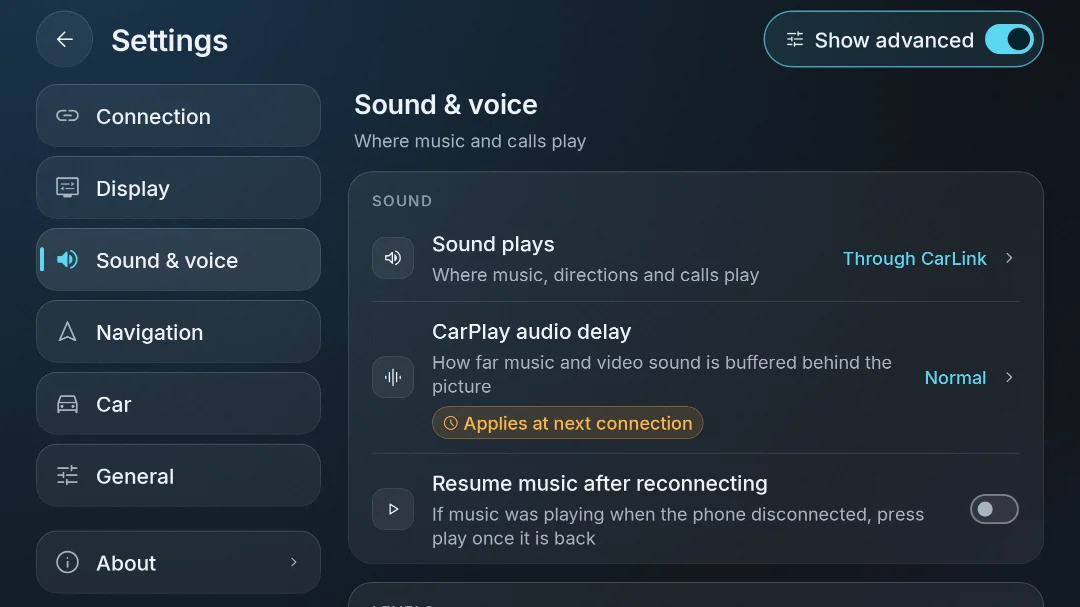
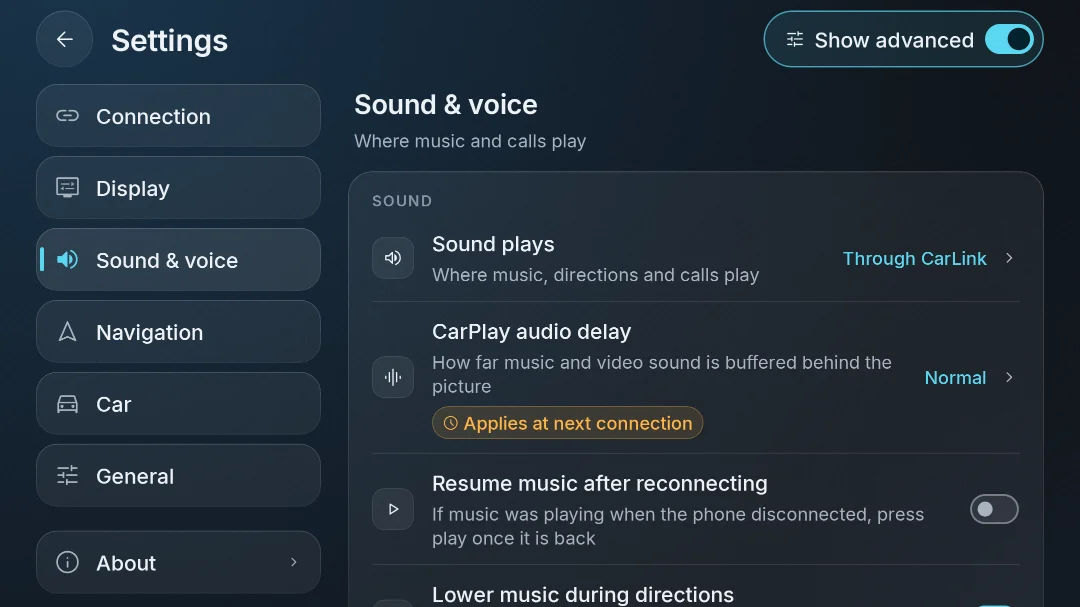
Lower CarPlay music during navigation prompts (#83)
On stereos that play media and navigation through one Android media
channel, CarPlay's own music stayed at full volume while a prompt spoke,
so directions were barely audible. The iPhone already sends duckAudio
and unduckAudio; DiPlay only used them for an opt-in focus request.

A small CarLink hook in DiPlay's AudioFocusCoordinator now keeps the
prompt duck as a second reason next to focus changes: media tracks play
at the quieter of the two, so a focus gain does not undo a prompt duck
and an unduck does not undo a focus loss. It also works with audio
focus off. HostAudio.duckMediaForPrompts gates it (off in standalone
DiPlay); CarLink sets it from the new "Lower music during directions"
setting under Sound, on by default, included in settings backups and
applied to a running session at once.

Changed region(s): [[0.3972, 0.9489, 0.7028, 1.0]]

diff --git a/vendor/diplay/shared/src/test/java/com/shilapi/xcertplay/media/PromptDuckVolumeTest.kt b/vendor/diplay/shared/src/test/java/com/shilapi/xcertplay/media/PromptDuckVolumeTest.kt
@@ -1,0 +1,91 @@
+package com.shilapi.xcertplay.media
+
+import android.content.Context
+import android.media.AudioAttributes
+import android.media.AudioFormat
+import android.media.AudioManager
+import android.media.AudioTrack
+import org.junit.After
+import org.junit.Assert.assertEquals
+import org.junit.Assert.assertTrue
+import org.junit.Before
+import org.junit.Test
+import org.junit.runner.RunWith
+import org.robolectric.RobolectricTestRunner
+import org.robolectric.RuntimeEnvironment
+import org.robolectric.Shadows.shadowOf
+import org.robolectric.annotation.Config
+
+/** CarLink (#83): a navigation prompt duck and focus changes each keep their own reason to lower music. */
+@RunWith(RobolectricTestRunner::class)
+@Config(sdk = [33], manifest = Config.NONE, shadows = [AudioFocusAutoYieldTest.VolumeTrackingAudioTrack::class])
+class PromptDuckVolumeTest {
+    private val context: Context get() = RuntimeEnvironment.getApplication()
+    private val manager get() = context.getSystemService(Context.AUDIO_SERVICE) as AudioManager
+    private val attributes = AudioAttributes.Builder().setUsage(AudioAttributes.USAGE_MEDIA).build()
+    private val tracks = mutableListOf<AudioTrack>()
+
+    @Before fun reset() {
+        AudioFocusAutoYieldTest.VolumeTrackingAudioTrack.volumes.clear()
+        shadowOf(manager).setNextFocusRequestResponse(AudioManager.AUDIOFOCUS_REQUEST_GRANTED)
+    }
+    @After fun cleanup() {
+        tracks.forEach(AudioTrack::release)
+        AudioFocusAutoYieldTest.VolumeTrackingAudioTrack.volumes.clear()
+    }
+
+    @Test fun combinedVolumeIsTheQuieterReason() {
+        assertEquals(1f, AudioFocusCoordinator.combinedMediaVolume(1f, false))
+        assertEquals(0.2f, AudioFocusCoordinator.combinedMediaVolume(1f, true))
+        assertEquals(0f, AudioFocusCoordinator.combinedMediaVolume(0f, true))
+        assertEquals(0.2f, AudioFocusCoordinator.combinedMediaVolume(0.2f, false))
+    }
+
+    @Test fun focusGainDoesNotUndoAPromptDuck() {
+        val coordinator = AudioFocusCoordinator(context, true)
+        val media = track()
+        coordinator.acquire(media, AudioChannel.MEDIA, attributes)
+        coordinator.setPromptDuck(true)
+        coordinator.listener.onAudioFocusChange(AudioManager.AUDIOFOCUS_GAIN)
+        assertEquals(listOf(0.2f), volumes(media))
+        coordinator.setPromptDuck(false)
+        assertEquals(listOf(0.2f, 1f), volumes(media))
+        coordinator.close()
+    }
+
+    @Test fun unduckDoesNotUndoAFocusLoss() {
+        val coordinator = AudioFocusCoordinator(context, true)
+        val media = track()
+        coordinator.acquire(media, AudioChannel.MEDIA, attributes)
+        coordinator.listener.onAudioFocusChange(AudioManager.AUDIOFOCUS_LOSS_TRANSIENT)
+        coordinator.setPromptDuck(true)
+        coordinator.setPromptDuck(false)
+        assertEquals(listOf(0f), volumes(media))
+        coordinator.listener.onAudioFocusChange(AudioManager.AUDIOFOCUS_LOSS_TRANSIENT_CAN_DUCK)
+        coordinator.setPromptDuck(true)
+        coordinator.setPromptDuck(false)
+        assertEquals(listOf(0f, 0.2f), volumes(media))
+        coordinator.close()
+    }
+
+    @Test fun promptDuckWorksWithFocusOffAndOnlyLowersMedia() {
+        val coordinator = AudioFocusCoordinator(context, false)
+        val media = track(); val phone = track(); val late = track()
+        coordinator.acquire(media, AudioChannel.MEDIA, attributes)
+        coordinator.acquire(phone, AudioChannel.PHONE, attributes)
+        coordinator.setPromptDuck(true)
+        coordinator.acquire(late, AudioChannel.MEDIA, attributes)
+        coordinator.setPromptDuck(false)
+        assertEquals(listOf(0.2f, 1f), volumes(media))
+        assertEquals(listOf(0.2f, 1f), volumes(late))
+        assertTrue(volumes(phone).isEmpty())
+        assertEquals(null, shadowOf(manager).lastAudioFocusRequest)
+        coordinator.close()
+    }
+
+    private fun track(): AudioTrack = AudioTrack.Builder().setAudioAttributes(attributes)
+        .setAudioFormat(AudioFormat.Builder().setSampleRate(44100).setEncoding(AudioFormat.ENCODING_PCM_16BIT)
+            .setChannelMask(AudioFormat.CHANNEL_OUT_STEREO).build())
+        .setTransferMode(AudioTrack.MODE_STREAM).setBufferSizeInBytes(4096).build().also(tracks::add)
+    private fun volumes(track: AudioTrack): List<Float> = AudioFocusAutoYieldTest.VolumeTrackingAudioTrack.volumes[track].orEmpty()
+}

diff --git a/vendor/diplay/shared/src/main/java/com/shilapi/xcertplay/media/AndroidMediaSink.kt b/vendor/diplay/shared/src/main/java/com/shilapi/xcertplay/media/AndroidMediaSink.kt
@@ -52,6 +52,7 @@ internal class AudioFocusCoordinator(
     private var request: AudioFocusRequestCompat? = null
     private var requestedChannel: AudioChannel? = null
     private var mediaVolume = FULL_VOLUME
+    private var promptDucked = false // CarLink: the iPhone's duckAudio, a second reason next to focus loss
     private var closed = false
     private var focusGeneration = 0L
     private var currentListener = listenerFor(focusGeneration)
@@ -90,15 +91,25 @@ internal class AudioFocusCoordinator(
 
     @Synchronized
     fun acquire(track: AudioTrack, channel: AudioChannel, attributes: AudioAttributes) {
-        if (closed || !enabled || manager == null || channel == AudioChannel.NAVIGATION) return
+        if (closed || manager == null || channel == AudioChannel.NAVIGATION) return
+        // CarLink: without focus, media tracks are still kept so a prompt duck can lower them.
+        if (!enabled && channel != AudioChannel.MEDIA) return
         active[track] = Entry(channel, attributes)
-        refreshRequest()
+        if (enabled) refreshRequest() // CarLink
         applyMediaVolume(track, active.getValue(track))
     }
 
     @Synchronized
     fun release(track: AudioTrack) {
-        if (active.remove(track) != null) refreshRequest()
+        if (active.remove(track) != null && enabled) refreshRequest() // CarLink: enabled
+    }
+
+    /** CarLink: lowers media while the iPhone ducks for a prompt; focus changes keep their own level. */
+    @Synchronized
+    fun setPromptDuck(ducked: Boolean) {
+        if (closed || promptDucked == ducked) return
+        promptDucked = ducked
+        setMediaVolume(mediaVolume)
     }
 
     fun onExternalFocusChange(change: Int) {
@@ -153,9 +164,10 @@ internal class AudioFocusCoordinator(
     private fun applyMediaVolume(track: AudioTrack, entry: Entry) {
         // Telephony and assistant speech remain audible, and navigation never enters this map.
         // This changes only the renderer's relative gain, never Android's user stream volume.
-        if (entry.channel != AudioChannel.MEDIA || entry.appliedVolume == mediaVolume) return
-        val applied = runCatching { track.setStereoVolume(mediaVolume, mediaVolume) == AudioTrack.SUCCESS }.getOrDefault(false)
-        if (applied) entry.appliedVolume = mediaVolume
+        val volume = combinedMediaVolume(mediaVolume, promptDucked) // CarLink
+        if (entry.channel != AudioChannel.MEDIA || entry.appliedVolume == volume) return
+        val applied = runCatching { track.setStereoVolume(volume, volume) == AudioTrack.SUCCESS }.getOrDefault(false)
+        if (applied) entry.appliedVolume = volume
     }
 
     private fun AudioChannel.focusPriority(): Int = when (this) {
@@ -165,10 +177,14 @@ internal class AudioFocusCoordinator(
         AudioChannel.NAVIGATION -> 0
     }
 
-    private companion object {
+    internal companion object {
         const val TAG = "DiPlay-AudioFocus"
         const val FULL_VOLUME = 1f
         const val DUCKED_VOLUME = 0.2f
+
+        /** CarLink: the quieter of the focus level and a prompt duck, so neither reason undoes the other. */
+        fun combinedMediaVolume(focusVolume: Float, promptDucked: Boolean): Float =
+            if (promptDucked) minOf(focusVolume, DUCKED_VOLUME) else focusVolume
     }
 }
 
@@ -243,6 +259,7 @@ class AndroidMediaSink(
 
     override fun onAudioDuck(ducked: Boolean) {
         if (ducked) navigationPromptFocus.onDuck() else navigationPromptFocus.onUnduck()
+        audioFocusCoordinator.setPromptDuck(ducked && HostAudio.duckMediaForPrompts) // CarLink: #83
     }
 
     /** The media-key session may own Android's current focus request for this same sink. */

diff --git a/carlink-core/src/main/java/com/carlink/core/settings/UnifiedSettings.kt b/carlink-core/src/main/java/com/carlink/core/settings/UnifiedSettings.kt
@@ -38,6 +38,8 @@ data class UnifiedSettings(
     val callAudioAsMedia: Boolean = false,
     /** Press play once a session is back when the phone was playing music as the last one ended. */
     val resumeMusic: Boolean = false,
+    /** CarPlay lowers its own music while a navigation prompt plays (GitHub #83). */
+    val duckMusicForDirections: Boolean = true,
     /** Software gain on the microphone sent to the phone ([AudioLevels.MIC_DB]). */
     val micGainDb: Int = 0,
 )
@@ -86,6 +88,7 @@ class UnifiedSettingsStore(context: Context) {
         callLevelDb = prefs.getInt("call_level_db", 0),
         callAudioAsMedia = prefs.getBoolean("call_audio_as_media", false),
         resumeMusic = prefs.getBoolean("resume_music", false),
+        duckMusicForDirections = prefs.getBoolean("duck_music_directions", true),
         micGainDb = prefs.getInt("mic_gain_db", 0),
     )
 
@@ -114,6 +117,7 @@ class UnifiedSettingsStore(context: Context) {
             .putInt("call_level_db", settings.callLevelDb)
             .putBoolean("call_audio_as_media", settings.callAudioAsMedia)
             .putBoolean("resume_music", settings.resumeMusic)
+            .putBoolean("duck_music_directions", settings.duckMusicForDirections)
             .putInt("mic_gain_db", settings.micGainDb)
             .apply()
     }

diff --git a/carlink-core/src/main/java/com/carlink/core/connection/CarPlaySettings.kt b/carlink-core/src/main/java/com/carlink/core/connection/CarPlaySettings.kt
@@ -69,6 +69,8 @@ data class CarPlayEngineSettings(
     /** Calls play as media (`HostAudio.callsAsMedia`, GitHub #32). */
     val callAudioAsMedia: Boolean = false,
     val resumeMusic: Boolean = false,
+    /** Music lowered during navigation prompts (`HostAudio.duckMediaForPrompts`, GitHub #83). */
+    val duckMusicForDirections: Boolean = true,
 )
 
 /** The vehicle-profile part of [CarPlayEngineSettings] (DIPLAY.md §12, F5). */
@@ -205,6 +207,7 @@ object CarPlaySettingsPolicy {
             micGainDb = settings.micGainDb,
             callAudioAsMedia = settings.callAudioAsMedia,
             resumeMusic = settings.resumeMusic,
+            duckMusicForDirections = settings.duckMusicForDirections,
         )
     }
 
@@ -243,6 +246,7 @@ object CarPlaySettingsPolicy {
         HostAudio.playbackPcm = AudioLevels.carPlayPlayback(values.mediaLevelDb, values.navigationLevelDb, values.callLevelDb)
         HostAudio.microphonePcm = AudioLevels.pcmGain(values.micGainDb)
         HostAudio.callsAsMedia = values.callAudioAsMedia
+        HostAudio.duckMediaForPrompts = values.duckMusicForDirections
         resumeMusic = values.resumeMusic
         if (BydOutputSettings.carPlayCallControls(context) != values.callKeys) {
             BydOutputSettings.setCarPlayCallControls(context, values.callKeys)

diff --git a/app/src/main/java/com/carlink/app/ui/settings/SettingsPages.kt b/app/src/main/java/com/carlink/app/ui/settings/SettingsPages.kt
@@ -210,6 +210,10 @@ private fun SoundEssentials(ui: SettingsUi, actions: SettingsActions, openSheet:
         SwitchRow(stringResource(R.string.carlink_settings_resume_music), u.resumeMusic,
             { on -> actions.update { it.copy(resumeMusic = on) } },
             description = stringResource(R.string.carlink_settings_resume_music_detail), icon = R.drawable.carlink_ic_play_arrow)
+        GroupDivider()
+        SwitchRow(stringResource(R.string.carlink_settings_duck_directions), u.duckMusicForDirections,
+            { on -> actions.update { it.copy(duckMusicForDirections = on) } },
+            description = stringResource(R.string.carlink_settings_duck_directions_detail), icon = R.drawable.carlink_ic_navigation)
     }
     GlassGroup(header = { GroupHeader(stringResource(R.string.carlink_settings_group_levels)) }) {
         ChoiceRow(stringResource(R.string.carlink_settings_level_media), levelLabel(u.mediaLevelDb),

diff --git a/carlink-core/src/test/java/com/carlink/core/connection/CarPlaySettingsTest.kt b/carlink-core/src/test/java/com/carlink/core/connection/CarPlaySettingsTest.kt
@@ -81,6 +81,9 @@ class CarPlaySettingsTest {
         assertNotNull(HostAudio.microphonePcm)
         assertTrue(HostAudio.callsAsMedia)
         assertTrue(CarPlaySettingsPolicy.resumeMusic)
+        assertTrue(HostAudio.duckMediaForPrompts) // on by default (#83)
+        CarPlaySettingsPolicy.apply(app, map(UnifiedSettings(duckMusicForDirections = false)))
+        assertFalse(HostAudio.duckMediaForPrompts)
         // Back to Normal: DiPlay's own audio path, untouched.
         CarPlaySettingsPolicy.apply(app, map())
         assertNull(HostAudio.playbackPcm)

diff --git a/app/src/main/java/com/carlink/app/ui/CarLinkViewModel.kt b/app/src/main/java/com/carlink/app/ui/CarLinkViewModel.kt
@@ -486,6 +486,8 @@ class CarLinkViewModel(application: Application) : AndroidViewModel(application)
         if (next == _unified.value) return
         _unified.value = next
         unifiedStore.save(next)
+        // Read at each navigation prompt, so it applies to a running CarPlay session at once (#83).
+        com.shilapi.xcertplay.media.HostAudio.duckMediaForPrompts = next.duckMusicForDirections
         // Engines read their settings at the start of each session (SessionManager writes them).
         refreshNetwork()
         session.onSettingsChanged()

diff --git a/app/src/main/java/com/carlink/app/ui/settings/SettingsBackup.kt b/app/src/main/java/com/carlink/app/ui/settings/SettingsBackup.kt
@@ -53,6 +53,7 @@ object SettingsBackup {
         Field(UNIFIED, "sound_car_bluetooth", Type.BOOL),
         Field(UNIFIED, "send_location", Type.BOOL),
         Field(UNIFIED, "byd_directions", Type.BOOL),
+        Field(UNIFIED, "duck_music_directions", Type.BOOL),
         Field(UNIFIED, "show_advanced", Type.BOOL),
         Field(UNIFIED, "lab_unlocked", Type.BOOL),
         Field(UNIFIED, "wheel_keys", Type.STRING),

diff --git a/vendor/diplay/shared/src/main/java/com/shilapi/xcertplay/media/HostAudio.kt b/vendor/diplay/shared/src/main/java/com/shilapi/xcertplay/media/HostAudio.kt
@@ -23,4 +23,9 @@ object HostAudio {
     @Volatile
     @JvmStatic
     var callsAsMedia: Boolean = false
+
+    /** Lowers CarPlay's own music while the iPhone ducks audio for a navigation prompt (CarLink #83). */
+    @Volatile
+    @JvmStatic
+    var duckMediaForPrompts: Boolean = false
 }

diff --git a/carlink-core/src/test/java/com/carlink/core/settings/SettingsStoresTest.kt b/carlink-core/src/test/java/com/carlink/core/settings/SettingsStoresTest.kt
@@ -42,6 +42,7 @@ class SettingsStoresTest {
             callLevelDb = -12,
             callAudioAsMedia = true,
             resumeMusic = true,
+            duckMusicForDirections = false,
             micGainDb = 9,
         )
         UnifiedSettingsStore(app).save(settings)

diff --git a/docs/VENDOR_CHANGES.md b/docs/VENDOR_CHANGES.md
@@ -129,6 +129,7 @@ After a pull, run `python3 scripts/resource_collisions.py` and the build and tes
 | `shared/.../network/ManualHotspotReadiness.kt` (`HotspotNetworkSnapshot.platformAp`, `reportedDown` in `selectHotspotInterface`, `up=` in its log line), `network/ManualHotspotInterfaces.kt` (passes the platform's tether list), three cases in `ManualHotspotReadinessTest` | Port of open upstream DiPlay **PR #1218** (head a2c14b424, not in 615b32ce0): an interface the platform itself lists as tethered and that holds the hotspot address counts as up even when `isUp()` says down; a configured or inferred interface still has to be up. | Upstream #1187: a Unisoc UMS512 head unit reported its tethered `wlan0` as down, so the car hotspot path never became ready. Drop this row when an upstream update brings #1218. |
 | `shared/.../transport/UsbNeighborDiscovery.kt` (new, `// CarLink: ported` header) and `UsbNeighborDiscoveryTest`; `network/Ipv6NcmBridge.kt` (`hostAddress`; solicitations for our USB address answered on the NCM link; `close` closes the tun, joins the tun→NCM thread, then closes NCM); `network/CarPlayVpnService.kt` (passes the address); `transport/NcmUsbBridge.kt` (`send` returns true once queued; `close` joins the writer for `writeTimeoutMillis` + 300 ms instead of 300 ms); `transport/UsbConfigurationSelection.kt` (an already active configuration is reused, `action=already-active`); `orchestration/CarPlayController.kt` (`isWiredTransport`; a wired teardown waits for its USB worker); `common/.../CarPlayHostActivity.kt` (a wired restart waits for the old controller and does not start a new one while it still owns USB work). Tests: `NcmUsbBridgeCloseTest` (CarLink waits 500 ms, not 100 ms, so the old 300 ms join would fail), `UsbSetupDiagnosticsTest` (two cases), `CarPlayControllerUsbServiceTest.wiredCloseDoesNotReportCompletionWhileUsbWorkerIsStillRunning`, `CarPlayHostDisplaySizeTest.wiredRestartWaitsPastFirstTeardownTimeout` | Port of open upstream DiPlay **PR #1212** (head 4d8fe6a41, not in 615b32ce0). CarLink differences: upstream serialises `close` with a synchronous `send` on the write lock; CarLink's writes go through its `ncm-bulk-out` writer thread (row above), so `close` instead waits for that thread to leave its `bulkTransfer` (bounded by the write timeout). An ND answer is queued like any frame, so it always counts as sent (upstream falls back to the tun when the phone refuses it). Upstream's `NcmUsbBridgeWriteTimeoutTest` case is left out with that file. | MT6580 / Android 8.1 head unit: with Wi-Fi on, wired CarPlay stalled because Android's per-app VPN routing sent the kernel's ND processing over Wi-Fi and the iPhone's solicitations went unanswered; and closing the NCM connection under an in-flight bulk URB panicked the MediaTek musb driver during teardown. Needs a wired test on such a unit. Drop this row when an upstream update brings #1212. |
 | `shared/.../media/HostAudio.kt` (new, `// CarLink` header); `media/AndroidMediaSink.kt` (`AudioRenderer.levelChannel`, `HostAudio.playbackPcm` in `writePcm` after the navigation attenuation, `HostAudio.callsAsMedia` in `mappedSelection`, `// CarLink`); `media/MicrophoneUplink.kt` (`HostAudio.microphonePcm` on each frame after the echo canceller) | Host audio hooks, unset (upstream behaviour) in standalone DiPlay. CarLink sets them in `CarPlaySettingsPolicy.apply`: per-stream levels in dB (media; navigation and Siri; calls) scaled in the PCM with clipping, keyed by the stream's own channel also when a call plays as media; the microphone level; and "Call audio plays as: Media", which takes upstream's own `playCallOnSpeaker` path (the BYD Bluetooth-suspended call) so the call plays with media usage while the communication mode and the voice-communication microphone stay. All null/false at 0 dB / Phone call. Tests: `AudioLevelsTest`, `CarPlaySettingsTest.soundSettingsReachDiPlaysAudioHooks`. | Separate media, navigation and call levels for both engines; GitHub #32 (calls too quiet or silent on some stereos unless they play as media); a microphone level. Untested on a car. |
+| `shared/.../media/HostAudio.kt` (`duckMediaForPrompts`); `media/AndroidMediaSink.kt` (`AudioFocusCoordinator`: `promptDucked`, `setPromptDuck`, `combinedMediaVolume`, media tracks kept with audio focus off, focus requests only when enabled; `AndroidMediaSink.onAudioDuck` calls `setPromptDuck`, `// CarLink`); test `media/PromptDuckVolumeTest.kt` (new) | While the iPhone ducks audio for a navigation prompt (duckAudio … unduckAudio), CarPlay's own media tracks play at the coordinator's ducked level (0.2). The track level is the quieter of the focus reason and the prompt duck, so a focus gain does not undo a prompt duck and an unduck does not undo a focus loss. Off (upstream behaviour) unless the host sets the flag; CarLink sets it in `CarPlaySettingsPolicy.apply` from "Lower music during directions" (default on). | GitHub #83: on stereos that play media and navigation through one Android media channel, prompts were drowned by CarPlay's own music. Untested on a car. |
 | `orchestration/CarPlayController.kt` (`onPhonePlaying` in the companion, called in `onRouteFrame` when the play state changes and with null in `onSessionEnded`); `CarPlayHostIntegration.kt` (`phonePlaying()`, `pressPlay()`: the running session's play state and an explicit `CarPlayMediaButton.PLAY`) | CarLink's opt-in "Resume music after reconnecting" (`connection/ResumeMusic`, wired in `CarPlayAdapter.install`): the iPhone's play state is saved at each change, and 5 s after the next session's first picture play is pressed once if music was playing as the last session ended and the iPhone has not played since. | iPhones usually resume by themselves; some do not after a dropped wireless link or a car restart. |
 | `common/src/test/.../CarPlayHostClusterStartupTest.kt` (`aReplacementSessionDetachesTheOldClusterSurfaceUntilItsOwnMainFrame` waits for `airPlayCommandExecutor` before stubbing the replacement, `// CarLink`) | Test only. | The night-mode command `onSessionActive` sends to the replacement session on that executor could call the mock during `when(...).thenReturn`, which Mockito does not allow from another thread; the stub then missed and the test failed under heavy machine load. |
 

diff --git a/.claude/skills/carlink-dev/SKILL.md b/.claude/skills/carlink-dev/SKILL.md
@@ -120,7 +120,7 @@ The hooks CarLink sets (where):
 | | `hasSession`, `stopSession`, `retryNow`, `selectPhone`, `selectedPhoneAddress`, `authenticationError`, `homeIntent` (calls) | `CarPlayAdapter`, `CarPlayPreflight`, `CarPlayWaitingView` |
 | | `liveSizeWidthsMm`; `setInterfaceSizeLive` (call: the size as a smaller view area, false = reconnect) | `CarPlayAdapter.install`; `switcher/SwitcherController` |
 | | `palette`, `chromeStyler`, `menuItems` | `engine/EngineChrome` |
-| DiPlay `HostAudio` | `playbackPcm` (Sound levels), `microphonePcm`, `callsAsMedia` | `CarPlaySettingsPolicy.apply` |
+| DiPlay `HostAudio` | `playbackPcm` (Sound levels), `microphonePcm`, `callsAsMedia`, `duckMediaForPrompts` (#83) | `CarPlaySettingsPolicy.apply` |
 | DiPlay `CarPlayController` / `CarPlayHostIntegration` | `onPhonePlaying` / `pressPlay` (resume music, `connection/ResumeMusic`) | `CarPlayAdapter.install` |
 | DiPlay `WirelessStartupTimeline` | `milestoneListener` (wireless milestones as progress) | `CarPlayAdapter` |
 | DiPlay `CarPlayController` | `openCarScreen` (the iPhone's car tile → Settings) | `CarLinkApplication.brandEngines` |
